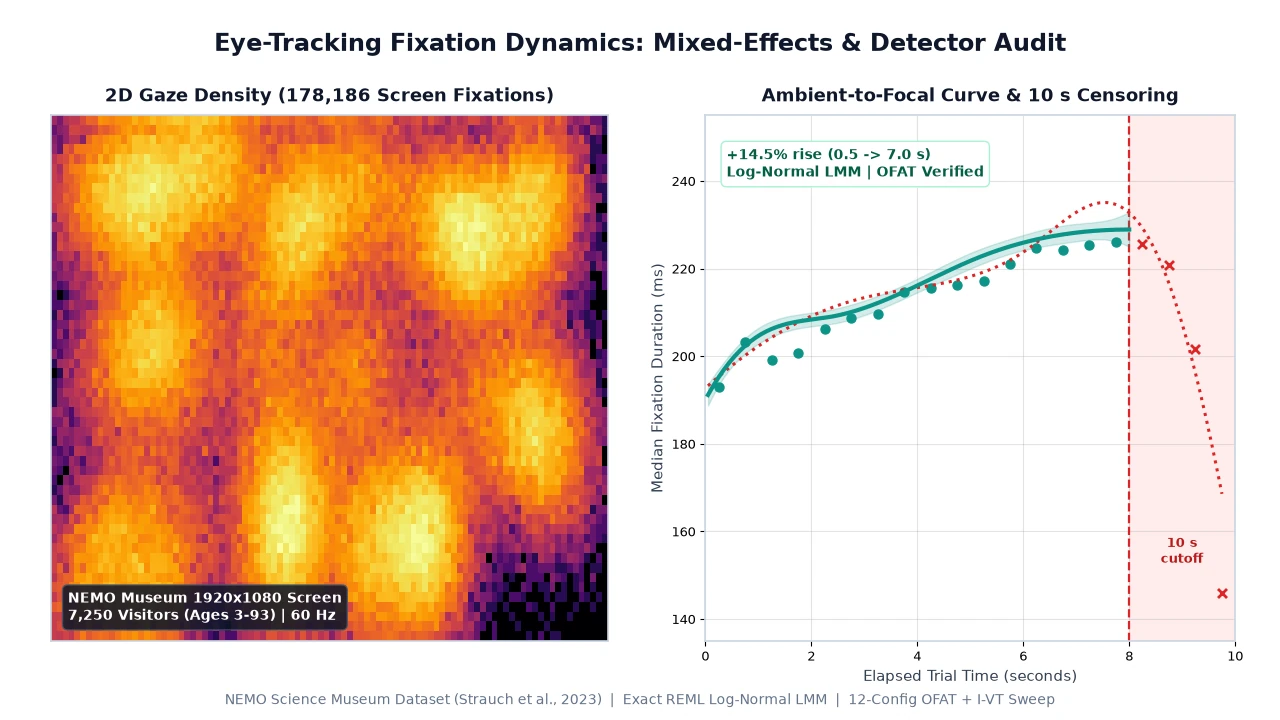
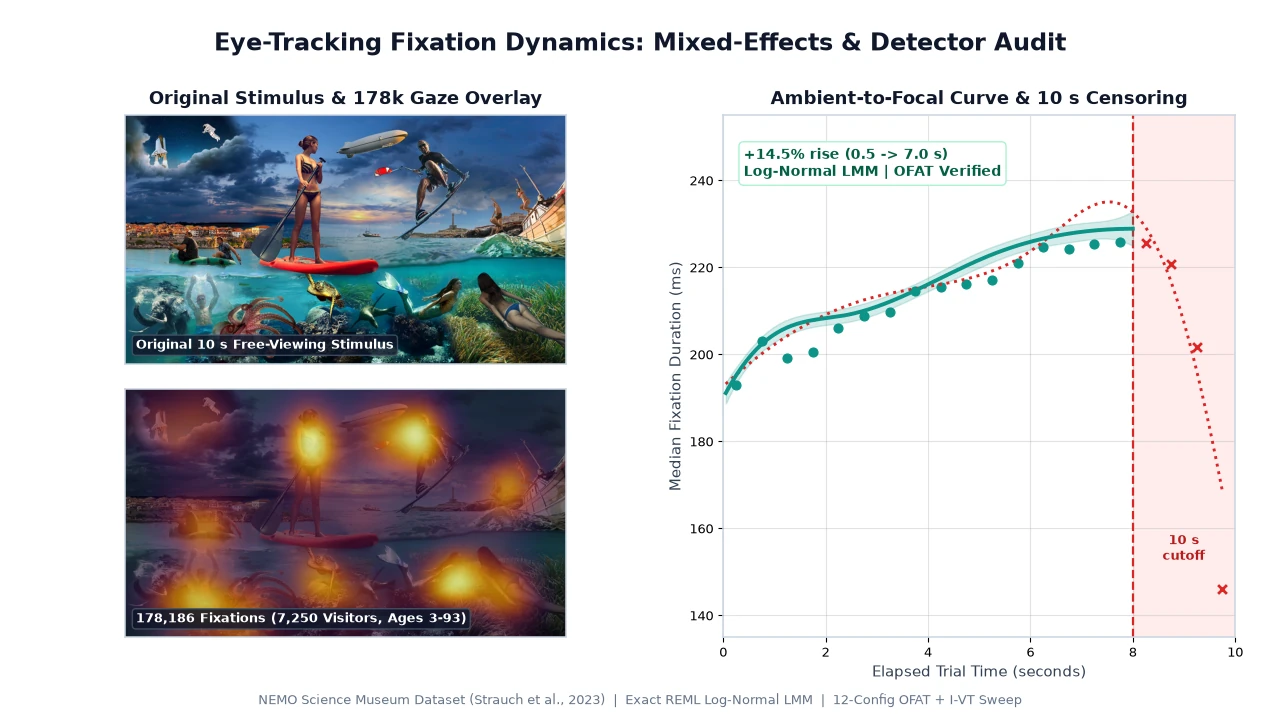
feat(eye-tracking): add original NEMO stimulus + pixel-exact fixation overlay figure and thumbnail

diff --git a/src/app/data/projects-data.ts b/src/app/data/projects-data.ts
@@ -1091,10 +1091,18 @@ export const PROJECTS: ProjectDetails[] = [
                 footnote:
                     'OFAT detector audit on 1,000 stratified 60 Hz traces (results/ofat_robustness.csv): across all 12 Adaptive Hessels (lambda 2.0-3.0, min_fix 40-100 ms, min_amp 0.5-1.5 deg) and I-VT (20-40 deg/s) settings, the uncensored 0.5->7.0 s rise held consistently between +9.2% and +14.1% (all p <= 2.0e-28). Fixed-threshold I-VT induced a small -1.6% to -1.9%/decade age artifact from unadapted tracking noise that vanished under noise-adaptive Hessels thresholds (-0.40% to -0.53%/decade, p > 0.21).',
             },
-            figuresHeading: 'Data Audit, Spline Trajectories & OFAT Detector Diagnostics',
+            figuresHeading: 'Experimental Stimulus, Data Audit & OFAT Diagnostics',
             figuresIntro:
-                'Generated directly by src/run_analysis.py on the NEMO Science Museum dataset (Strauch et al., 2023). Click any figure to inspect full resolution.',
+                'Original NEMO stimulus (Strauch et al., 2023) and diagnostic plots generated directly by src/run_analysis.py. Click any figure to inspect full resolution.',
             figures: [
+                {
+                    src: 'projects/eye-tracking/stimulus-and-gaze-overlay.webp',
+                    badge: 'Experiment Stimulus',
+                    title: 'Original 10-Second Free-Viewing Stimulus & Empirical Gaze Overlay',
+                    caption:
+                        'Left: The feature-rich 1920x1080 composite scene shown to 7,250 NEMO Science Museum visitors for 10 seconds without instructions. Right: Gaussian-smoothed density of 178,186 in-screen fixations aligned pixel-exact to focal humans, faces, and animals.',
+                    surface: 'light',
+                },
                 {
                     src: 'projects/eye-tracking/data-audit-and-diagnostics.webp',
                     badge: 'Audit & Q-Q Check',
@@ -1122,9 +1130,9 @@ export const PROJECTS: ProjectDetails[] = [
                 {
                     src: 'projects/eye-tracking/ofat-robustness-and-spatial-gaze.webp',
                     badge: '12-Config OFAT · Gaze Map',
-                    title: 'OFAT Detector Robustness (1,000 Real 60 Hz Traces) & 2D Gaze Density',
+                    title: 'OFAT Detector Robustness (1,000 Real 60 Hz Traces) & Stimulus Overlay',
                     caption:
-                        'Left: Varying one parameter at a time across Adaptive Hessels and independent I-VT (20-40 deg/s) shifts median duration by 17-33 ms while leaving the +9.2% to +14.1% ambient-to-focal rise invariant. Right: Log-density map of 178,186 in-screen fixations on the 1920x1080 stimulus.',
+                        'Left: Varying one parameter at a time across Adaptive Hessels and independent I-VT (20-40 deg/s) shifts median duration by 17-33 ms while leaving the +9.2% to +14.1% ambient-to-focal rise invariant. Right: Pixel-aligned fixation overlay on the 1920x1080 NEMO stimulus.',
                     surface: 'light',
                 },
             ],
